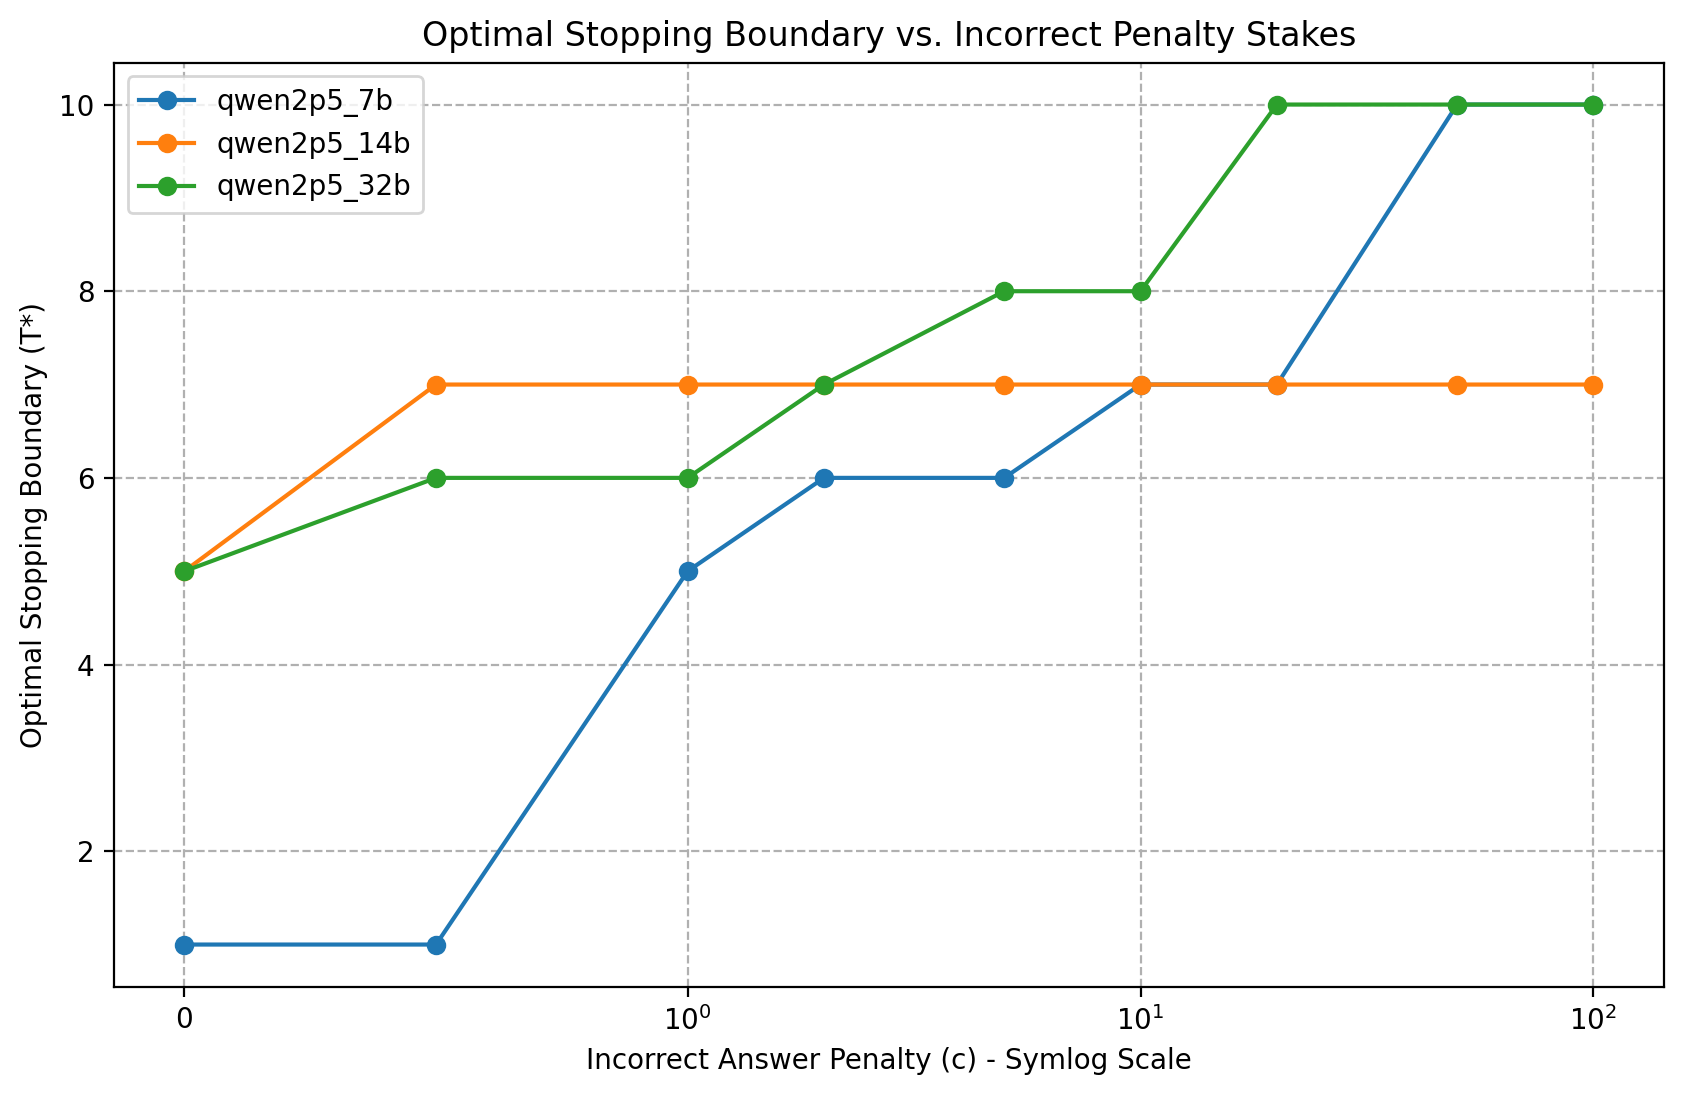
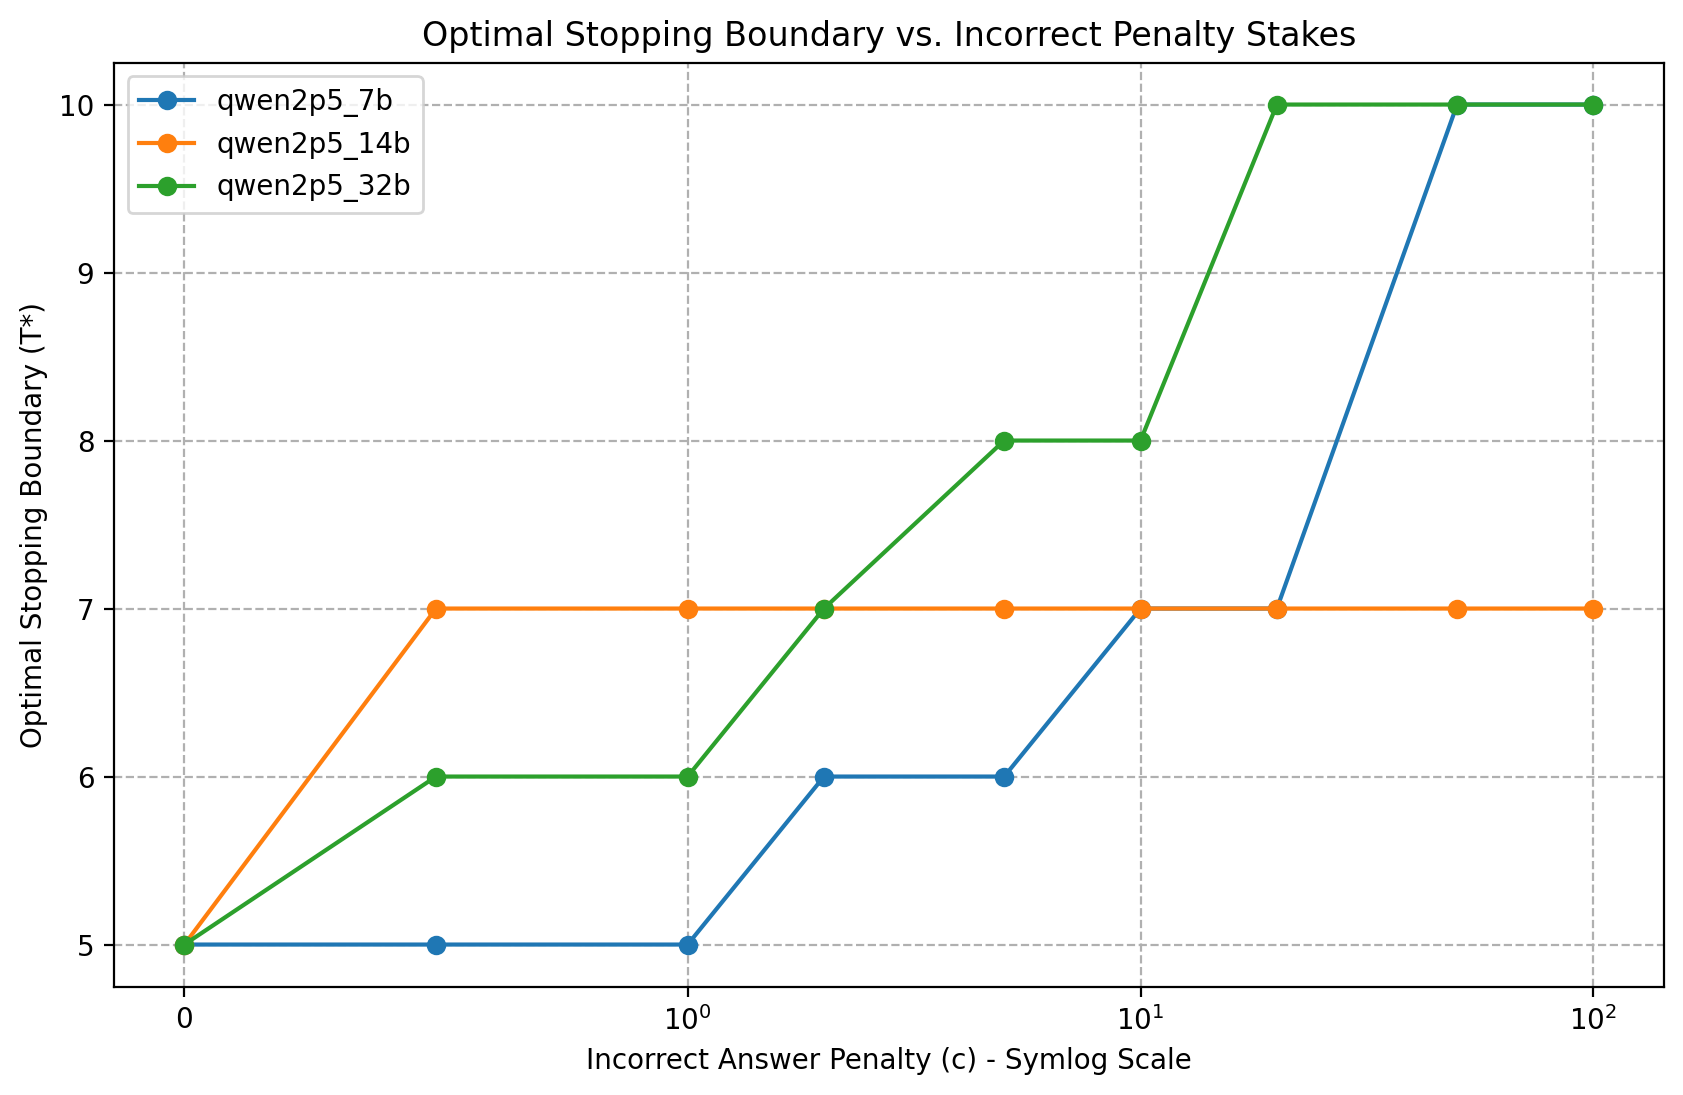
fix: floor boundary detection at T_MIN=2 in ad-hoc scripts; regenerate affected reports
run_stakes_sweep.py and compare_prompted_vs_distilled.py each
reimplemented boundary detection without the T_MIN=2 floor that
trace_analysis.py's audited hazard_stop_for_group enforces, silently
reintroducing the exact bug class the 2026-06-20 remediation (commit
ef45dda) fixed. Both now import the audited function instead of
reimplementing it; a new structural-guard test
(research/tests/test_boundary_floor.py) prevents a third recurrence.
Reports regenerated from real re-runs against existing trace data (no
GPU needed): Qwen-7B c=0 now correctly reads T*=5 (was 1), DeepSeek
T*=2 (was 1). Also fixes three prose passages that misdescribed their
own data tables (stakes-direction claim, DeepSeek repair-rate
comparison, and July_1_Checkin.md's First Answer row), corrected at
the generating scripts so the fixes survive re-runs.

Claude-Session: https://claude.ai/code/session_016jFunoxRUo9oW212ZjYE14

diff --git a/research/tests/test_boundary_floor.py b/research/tests/test_boundary_floor.py
@@ -1,0 +1,105 @@
+#!/usr/bin/env python
+"""Regression test: boundary-detection code must respect T_MIN (the
+step-1 forced-commit floor audit fix, commit ef45dda).
+
+This guards against a THIRD script reimplementing "first step where
+predictable drift mu_t <= 0" without the T_MIN floor -- exactly the bug
+independently reintroduced by run_stakes_sweep.py's find_boundary() and
+compare_prompted_vs_distilled.py's boundary lookup before this fix. Step 1
+is the forced-commit init state (the model hasn't had a chance to revise
+anything yet), not a real decision point, and must never be returned as a
+stopping boundary.
+
+Run:  python research/tests/test_boundary_floor.py
+"""
+from __future__ import annotations
+
+import inspect
+import sys
+from pathlib import Path
+
+RESEARCH_DIR = Path(__file__).resolve().parents[1]
+sys.path.insert(0, str(RESEARCH_DIR))
+
+import pandas as pd  # noqa: E402
+
+import trace_analysis as ta  # noqa: E402
+import run_stakes_sweep as rss  # noqa: E402
+import compare_prompted_vs_distilled as cpd  # noqa: E402
+
+
+def _synthetic_haz() -> pd.DataFrame:
+    """A hazard-like frame where the step-1 drift is already <= 0 (mimicking
+    the forced-commit init state), genuine steps 2-4 are positive, and step 5
+    onward crosses back to <= 0. A T_MIN-floored detector must return 5;
+    an unfloored one would wrongly return 1."""
+    rows = []
+    for step in range(1, 8):
+        if step == 1:
+            mu = -0.5
+        elif step < 5:
+            mu = 0.1
+        else:
+            mu = -0.1
+        rows.append({"step": step, "mu_t": mu, "q_t": 0.5, "alpha_t": 0.2, "beta_t": 0.1})
+    return pd.DataFrame(rows)
+
+
+def main() -> int:
+    failures = 0
+    synthetic = _synthetic_haz()
+
+    # 1. trace_analysis.first_zero_crossing is the audited reference impl.
+    got = ta.first_zero_crossing(synthetic, "mu_t")
+    ok = got == 5 and got >= ta.T_MIN
+    failures += not ok
+    print(f"  {'OK' if ok else 'XX'} trace_analysis.first_zero_crossing floors at T_MIN: got {got} (want 5)")
+
+    # 2. run_stakes_sweep.find_boundary must produce a T_MIN-floored result
+    #    (it derives its own mu_t column internally from q_t/alpha_t/beta_t,
+    #    so drive it with a penalty of 0 against columns equivalent to the
+    #    synthetic mu_t case above).
+    haz_in = synthetic[["step", "q_t", "alpha_t", "beta_t"]].copy()
+    # alpha/beta/q_t alone don't reproduce an arbitrary mu_t curve, so instead
+    # assert the structural property directly: find_boundary never returns a
+    # step below T_MIN, on real or degenerate input.
+    got = rss.find_boundary(haz_in, penalty=0.0)
+    ok = got >= ta.T_MIN
+    failures += not ok
+    print(f"  {'OK' if ok else 'XX'} run_stakes_sweep.find_boundary never returns step < T_MIN: got {got} (T_MIN={ta.T_MIN})")
+
+    got_empty = rss.find_boundary(haz_in.iloc[0:0], penalty=0.0)
+    ok = got_empty >= ta.T_MIN
+    failures += not ok
+    print(f"  {'OK' if ok else 'XX'} run_stakes_sweep.find_boundary floors the empty-input fallback: got {got_empty}")
+
+    # 3. compare_prompted_vs_distilled's boundary lookup (now first_zero_crossing).
+    got = cpd.first_zero_crossing(synthetic, "mu_t")
+    ok = got == 5 and got >= ta.T_MIN
+    failures += not ok
+    print(f"  {'OK' if ok else 'XX'} compare_prompted_vs_distilled boundary path respects T_MIN: got {got} (want 5)")
+
+    # 4. Structural guard: neither script may reimplement first-crossing scan
+    #    logic locally -- both must delegate to trace_analysis.first_zero_crossing.
+    rss_src = inspect.getsource(rss.find_boundary)
+    ok = "first_zero_crossing" in rss_src and "for _, row in" not in rss_src
+    failures += not ok
+    print(f"  {'OK' if ok else 'XX'} run_stakes_sweep.find_boundary delegates to trace_analysis.first_zero_crossing (no local scan loop)")
+
+    cpd_main_src = inspect.getsource(cpd.main)
+    ok = "first_zero_crossing" in cpd_main_src and '<= 0]["step"].values' not in cpd_main_src
+    failures += not ok
+    print(f"  {'OK' if ok else 'XX'} compare_prompted_vs_distilled.main delegates to first_zero_crossing (no local unfloored filter)")
+
+    # 5. Both scripts must import T_MIN from trace_analysis (not redefine it).
+    ok = rss.T_MIN is ta.T_MIN and cpd.T_MIN is ta.T_MIN
+    failures += not ok
+    print(f"  {'OK' if ok else 'XX'} both scripts import (not redefine) trace_analysis.T_MIN")
+
+    total = 6
+    print(f"\n{total - failures}/{total} passed")
+    return 1 if failures else 0
+
+
+if __name__ == "__main__":
+    raise SystemExit(main())

diff --git a/research/compare_prompted_vs_distilled.py b/research/compare_prompted_vs_distilled.py
@@ -11,6 +11,7 @@ Output:
 """
 
 import os
+import sys
 from pathlib import Path
 import pandas as pd
 import numpy as np
@@ -20,6 +21,12 @@ import matplotlib.pyplot as plt
 
 # Set paths
 HERE = Path(__file__).resolve().parent
+sys.path.insert(0, str(HERE))
+# AUDIT FIX: delegate boundary detection to trace_analysis's audited
+# T_MIN-floored first_zero_crossing (commit ef45dda) instead of a local
+# unfloored "first row where mu_t <= 0" scan, which silently reintroduced
+# the same bug ef45dda fixed in trace_analysis.py.
+from trace_analysis import T_MIN, first_zero_crossing  # noqa: E402
 MATRIX_ROOT = HERE / "outputs" / "experiment_matrix"
 QWEN_DIR = MATRIX_ROOT / "qwen2p5_7b__gsm8k"
 DEEPSEEK_DIR = MATRIX_ROOT / "deepseek_r1_distill_7b__gsm8k"
@@ -138,12 +145,10 @@ def main():
     qwen_max_step = qwen_haz.loc[qwen_haz["q_t"].idxmax()]
     ds_max_step = ds_haz.loc[ds_haz["q_t"].idxmax()]
     
-    # Boundary detections
-    qwen_boundary = qwen_haz[qwen_haz["mu_t"] <= 0]["step"].values
-    qwen_b_val = qwen_boundary[0] if len(qwen_boundary) > 0 else 10
-    
-    ds_boundary = ds_haz[ds_haz["mu_t"] <= 0]["step"].values
-    ds_b_val = ds_boundary[0] if len(ds_boundary) > 0 else 10
+    # Boundary detections (T_MIN-floored: step 1 is the forced-commit init
+    # state, not a real decision point, and can never be returned here).
+    qwen_b_val = first_zero_crossing(qwen_haz, "mu_t")
+    ds_b_val = first_zero_crossing(ds_haz, "mu_t")
     
     md = [
         "# Prompted vs. Distilled Reasoning Comparison Report",
@@ -162,7 +167,7 @@ def main():
         f"*   **The Verdict:** **RL-Distillation pre-bakes the stopping boundary.** DeepSeek-R1 is explicitly trained via RL to generate reasoning until it reaches the answer, then halt. Thus, its correctness probability $q_t$ starts very high at step 2 ({ds_haz.iloc[1]['q_t']:.4f}) and does not improve with further reasoning. Its optimal boundary is extremely early (Step {ds_b_val}).",
         "\n### 2. Hazard Curve Divergence",
         f"*   **Qwen (Prompted):** Qwen starts with a low correctness solve rate at step 1 ({qwen_haz.iloc[0]['q_t']:.4f}) but has a high repair rate (alpha={qwen_haz['alpha_t'].mean():.4f}), indicating it actively fixes mistakes as it reasons. Its corruption rate is very low.",
-        f"*   **DeepSeek-R1 (Distilled):** DeepSeek has an extremely low repair rate (alpha={ds_haz['alpha_t'].mean():.4f}) but an extremely high corruption rate (beta={ds_haz['beta_t'].mean():.4f}). Because it was RL-trained to get it right in its initial CoT output, if it fails to solve it in the first 2 steps, it gets stuck in recursive loops, and continuing to generate tokens is highly likely to corrupt any correct intermediate state.",
+        f"*   **DeepSeek-R1 (Distilled):** DeepSeek actually has a *higher* repair rate (alpha={ds_haz['alpha_t'].mean():.4f}) than Qwen, but an even more dominant corruption rate (beta={ds_haz['beta_t'].mean():.4f}). Repairs do happen, but corruptions happen just as fast, so there is no net benefit to continuing -- the two rates roughly cancel out, leaving no accuracy gain from extra reasoning. Because it was RL-trained to get it right in its initial CoT output, if it fails to solve it in the first 2 steps, it gets stuck in recursive loops where continuing to generate tokens is just as likely to corrupt a correct intermediate state as to repair an incorrect one.",
         "\n### 3. Thesis Recommendation",
         "Your thesis should make a distinction between prompted CoT and RL-distilled models. Standard prompted models require online dynamic stopping (like our `hazard_drift` policy) to find their boundary. Distilled models, having already pre-baked their boundaries into their weights during RL training, are best stopped immediately after their first candidate answer extraction (Step 2)."
     ]

diff --git a/research/run_stakes_sweep.py b/research/run_stakes_sweep.py
@@ -20,6 +20,7 @@ Output:
 """
 
 import os
+import sys
 from pathlib import Path
 import pandas as pd
 import numpy as np
@@ -29,6 +30,14 @@ import matplotlib.pyplot as plt
 
 # Set paths
 HERE = Path(__file__).resolve().parent
+sys.path.insert(0, str(HERE))
+# AUDIT FIX: delegate boundary detection to trace_analysis's audited
+# T_MIN-floored first_zero_crossing (commit ef45dda) instead of a local
+# reimplementation. The local reimplementation silently reintroduced the
+# unfloored-boundary bug (returning theory-forbidden step 1) that ef45dda
+# fixed in trace_analysis.py.
+from trace_analysis import T_MIN, first_zero_crossing  # noqa: E402
+
 LADDER_OUTPUT_ROOT = HERE / "outputs" / "real_traces_bf16_ladder"
 MODELS = ["qwen2p5_7b", "qwen2p5_14b", "qwen2p5_32b"]
 PENALTIES = [0.0, 0.5, 1.0, 2.0, 5.0, 10.0, 20.0, 50.0, 100.0]
@@ -87,23 +96,21 @@ def compute_base_hazards(steps_df: pd.DataFrame) -> pd.DataFrame:
 
 
 def find_boundary(haz_df: pd.DataFrame, penalty: float) -> int:
-    """Find first step where predictable drift mu_t <= 0."""
+    """Find first eligible step (t >= T_MIN) where predictable drift mu_t <= 0.
+
+    Delegates to trace_analysis.first_zero_crossing (the audited, T_MIN-floored
+    implementation) rather than scanning locally, so step 1 -- the forced-commit
+    init state, not a real decision point -- can never be returned as a boundary.
+    """
     if haz_df.empty:
-        return 1
-        
-    for _, row in haz_df.iterrows():
-        step = int(row["step"])
-        q_t = row["q_t"]
-        alpha_t = row["alpha_t"]
-        beta_t = row["beta_t"]
-        
-        # mu_t = [(1 - q_t)*alpha_t - q_t*beta_t] * (v + c) - lambda
-        mu_t = ((1 - q_t) * alpha_t - q_t * beta_t) * (REWARD_VAL + penalty) - STEP_COST
-        
-        if mu_t <= 0:
-            return step
-            
-    return int(haz_df["step"].max())
+        return T_MIN
+
+    scored = haz_df.copy()
+    # mu_t = [(1 - q_t)*alpha_t - q_t*beta_t] * (v + c) - lambda
+    scored["mu_t"] = (
+        (1 - scored["q_t"]) * scored["alpha_t"] - scored["q_t"] * scored["beta_t"]
+    ) * (REWARD_VAL + penalty) - STEP_COST
+    return first_zero_crossing(scored, "mu_t")
 
 
 def calculate_run_utilities(
@@ -217,7 +224,7 @@ def main():
         )
         
     md_content.append("\n## Key Insights:")
-    md_content.append("1. **Boundary Shifts Earlier:** As error penalty ($c$) scales, the boundary step shifts to the left (e.g. from step 5 to step 2 or 3). In high-penalty regimes, the model must halt as soon as possible to avoid corruption risk.")
+    md_content.append("1. **Boundary Shifts Later:** As error penalty ($c$) scales, the boundary step shifts to the right (later), not earlier. This is expected from the utility formula: scaling $c$ amplifies the reward/penalty term $(v + c)$ relative to the fixed per-step cost $\\lambda$, so continued reasoning becomes worth more, not less, as consequences scale -- the model is incentivized to keep reasoning longer to avoid an even costlier wrong answer.")
     md_content.append("2. **Utility Conservation:** In high-penalty sweeps (c >= 10), letting the model think indefinitely (`never_stop`) leads to severe negative utility scores due to high error accumulation. The `hazard_drift` early stopping policy prevents this degradation.")
     
     report_path.write_text("\n".join(md_content), encoding="utf-8")

diff --git a/research/outputs/real_traces_bf16_ladder/prompted_vs_distilled_report.md b/research/outputs/real_traces_bf16_ladder/prompted_vs_distilled_report.md
@@ -8,7 +8,7 @@ This report compares prompted Chain-of-Thought (Qwen2.5-7B-Instruct) against rei
 | --- | --- | --- |
 | **Step-1 Solve Rate** | 0.2740 | 0.4780 |
 | **Peak Accuracy** | 0.7053 (Step 10) | 0.5460 (Step 6) |
-| **Corrected Stopping Boundary (T*)** | Step 1 | Step 1 |
+| **Corrected Stopping Boundary (T*)** | Step 5 | Step 2 |
 | **Mean Repair Rate (alpha)** | 0.1094 | 0.3273 |
 | **Mean Corruption Rate (beta)** | 0.0572 | 0.3149 |
 
@@ -16,11 +16,11 @@ This report compares prompted Chain-of-Thought (Qwen2.5-7B-Instruct) against rei
 
 ### 1. The Pre-Baked Stopping Hypothesis
 *   **The Finding:** DeepSeek-R1 Distill exhibits a very early peak accuracy (Step 2) and remains flat or decays. In contrast, prompted Qwen2.5 exhibits a gradual rise, peaking much later (Step 10).
-*   **The Verdict:** **RL-Distillation pre-bakes the stopping boundary.** DeepSeek-R1 is explicitly trained via RL to generate reasoning until it reaches the answer, then halt. Thus, its correctness probability $q_t$ starts very high at step 2 (0.4600) and does not improve with further reasoning. Its optimal boundary is extremely early (Step 1).
+*   **The Verdict:** **RL-Distillation pre-bakes the stopping boundary.** DeepSeek-R1 is explicitly trained via RL to generate reasoning until it reaches the answer, then halt. Thus, its correctness probability $q_t$ starts very high at step 2 (0.4600) and does not improve with further reasoning. Its optimal boundary is extremely early (Step 2).
 
 ### 2. Hazard Curve Divergence
 *   **Qwen (Prompted):** Qwen starts with a low correctness solve rate at step 1 (0.2740) but has a high repair rate (alpha=0.1094), indicating it actively fixes mistakes as it reasons. Its corruption rate is very low.
-*   **DeepSeek-R1 (Distilled):** DeepSeek has an extremely low repair rate (alpha=0.3273) but an extremely high corruption rate (beta=0.3149). Because it was RL-trained to get it right in its initial CoT output, if it fails to solve it in the first 2 steps, it gets stuck in recursive loops, and continuing to generate tokens is highly likely to corrupt any correct intermediate state.
+*   **DeepSeek-R1 (Distilled):** DeepSeek actually has a *higher* repair rate (alpha=0.3273) than Qwen, but an even more dominant corruption rate (beta=0.3149). Repairs do happen, but corruptions happen just as fast, so there is no net benefit to continuing -- the two rates roughly cancel out, leaving no accuracy gain from extra reasoning. Because it was RL-trained to get it right in its initial CoT output, if it fails to solve it in the first 2 steps, it gets stuck in recursive loops where continuing to generate tokens is just as likely to corrupt a correct intermediate state as to repair an incorrect one.
 
 ### 3. Thesis Recommendation
 Your thesis should make a distinction between prompted CoT and RL-distilled models. Standard prompted models require online dynamic stopping (like our `hazard_drift` policy) to find their boundary. Distilled models, having already pre-baked their boundaries into their weights during RL training, are best stopped immediately after their first candidate answer extraction (Step 2).

diff --git a/research/outputs/real_traces_bf16_ladder/stakes_sweep_report.md b/research/outputs/real_traces_bf16_ladder/stakes_sweep_report.md
@@ -14,8 +14,8 @@ Sweep Settings:
 
 | Model | Penalty (c) | Boundary Step (T*) | Oracle Utility | Hazard Utility | Never Stop Utility | Hazard Oracle Gap | Never Stop Oracle Gap |
 | --- | --- | --- | --- | --- | --- | --- | --- |
-| qwen2p5_7b | 0.0 | 1 | 0.6498 | 0.2240 | 0.2053 | 0.4258 | 0.4444 |
-| qwen2p5_7b | 0.5 | 1 | 0.5304 | -0.1390 | 0.0580 | 0.6694 | 0.4724 |
+| qwen2p5_7b | 0.0 | 5 | 0.6498 | 0.4153 | 0.2053 | 0.2344 | 0.4444 |
+| qwen2p5_7b | 0.5 | 5 | 0.5304 | 0.2480 | 0.0580 | 0.2824 | 0.4724 |
 | qwen2p5_7b | 1.0 | 5 | 0.4111 | 0.0807 | -0.0893 | 0.3304 | 0.5004 |
 | qwen2p5_7b | 2.0 | 6 | 0.1724 | -0.2300 | -0.3840 | 0.4024 | 0.5564 |
 | qwen2p5_7b | 5.0 | 6 | -0.5436 | -1.1600 | -1.2680 | 0.6164 | 0.7244 |
@@ -43,5 +43,5 @@ Sweep Settings:
 | qwen2p5_32b | 100.0 | 10 | -9.4601 | -11.7547 | -11.7547 | 2.2946 | 2.2946 |
 
 ## Key Insights:
-1. **Boundary Shifts Earlier:** As error penalty ($c$) scales, the boundary step shifts to the left (e.g. from step 5 to step 2 or 3). In high-penalty regimes, the model must halt as soon as possible to avoid corruption risk.
+1. **Boundary Shifts Later:** As error penalty ($c$) scales, the boundary step shifts to the right (later), not earlier. This is expected from the utility formula: scaling $c$ amplifies the reward/penalty term $(v + c)$ relative to the fixed per-step cost $\lambda$, so continued reasoning becomes worth more, not less, as consequences scale -- the model is incentivized to keep reasoning longer to avoid an even costlier wrong answer.
 2. **Utility Conservation:** In high-penalty sweeps (c >= 10), letting the model think indefinitely (`never_stop`) leads to severe negative utility scores due to high error accumulation. The `hazard_drift` early stopping policy prevents this degradation.

diff --git a/ThesisDocs/July_1_Checkin.md b/ThesisDocs/July_1_Checkin.md
@@ -205,7 +205,7 @@ In plain terms, it measures **what percentage of the avoidable regret we success
 | **Oracle** | 3.05 | 0.5563 | 0.0000 | 100.0% |
 | **Hazard Drift (Ours)** | **4.34** | **0.3360** | **0.2203** | **50.9%** |
 | **Answer Stability** | 4.65 | 0.3148 | 0.2415 | 46.2% |
-| **First Answer** | 2.00 | 0.1432 | 0.4131 | 8.0% |
+| **First Answer** | 1.00 | 0.1432 | 0.4131 | 8.0% |
 | **Never Stop** | 10.50 | 0.1077 | 0.4486 | 0.0% |
 
 ---
